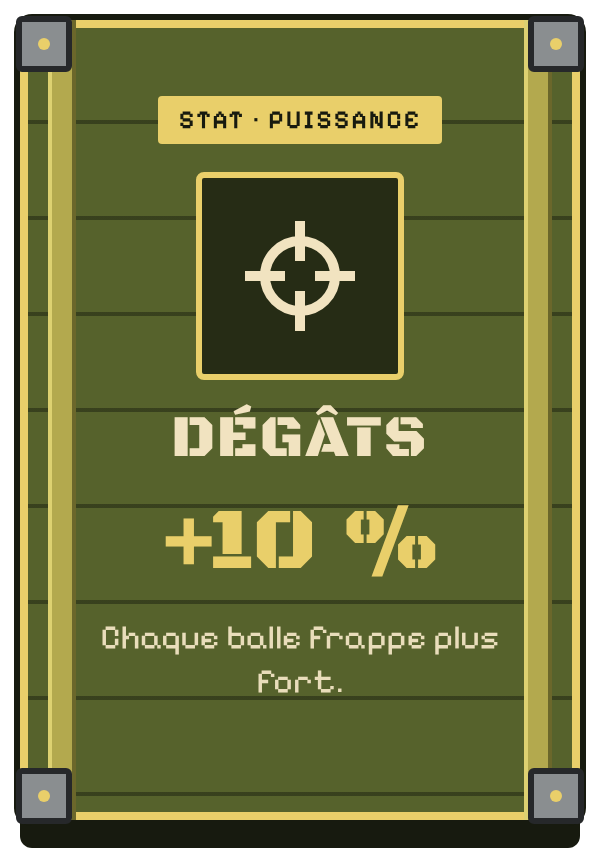
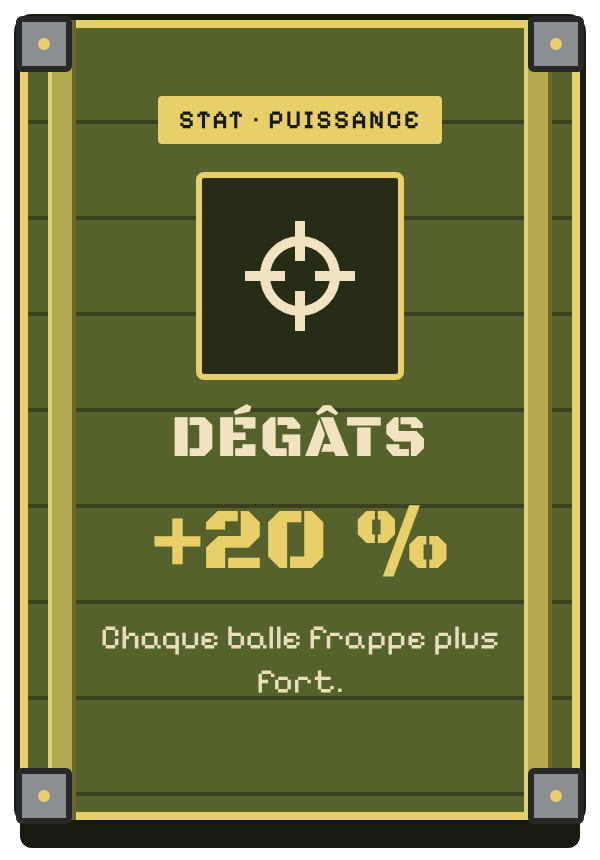
Degats de base 8 et carte degats a +20 %

Changed region(s): [[0.24, 0.5744, 0.54, 0.6651], [0.57, 0.5744, 0.75, 0.6953]]

diff --git a/core/src/main/java/hugo/upgrade/UpgradePool.java b/core/src/main/java/hugo/upgrade/UpgradePool.java
@@ -10,7 +10,7 @@ public class UpgradePool {
 
     public UpgradePool() {
         upgrades.add(new StatUpgrade("+10 % de vitesse", "speed", player -> player.getSpeed(), 1.1f));
-        upgrades.add(new StatUpgrade("+10 % de dégâts", "damage", player -> player.getAttackDamage(), 1.1f));
+        upgrades.add(new StatUpgrade("+20 % de dégâts", "damage", player -> player.getAttackDamage(), 1.2f));
         upgrades.add(new StatUpgrade("+10 % de portée", "range", player -> player.getAttackRange(), 1.1f));
         upgrades.add(new StatUpgrade("+10 % de dégâts critiques", "crit-damage", player -> player.getCritMultiplier(), 1.1f));
         upgrades.add(new FlatStatUpgrade("+10 % de chance de critique", "crit-chance", player -> player.getCritChance(), 0.1f));

diff --git a/core/src/main/java/hugo/entity/Player.java b/core/src/main/java/hugo/entity/Player.java
@@ -26,7 +26,7 @@ public class Player extends Creature {
     private static final int FRAME_WIDTH = 543;
     private static final int FRAME_HEIGHT = 724;
     private static final float ATTACK_RANGE = 500;
-    private static final float ATTACK_DAMAGE = 7;
+    private static final float ATTACK_DAMAGE = 8;
     private static final float HITBOX_SIZE = 33;
     private static final float CRIT_CHANCE = 0.1f;
     private static final float CRIT_MULTIPLIER = 2.0f;
